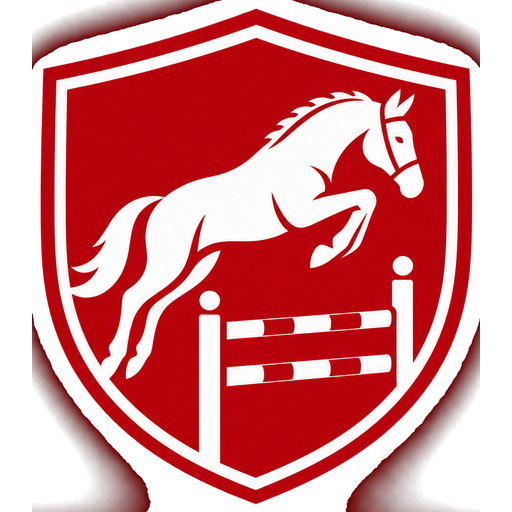
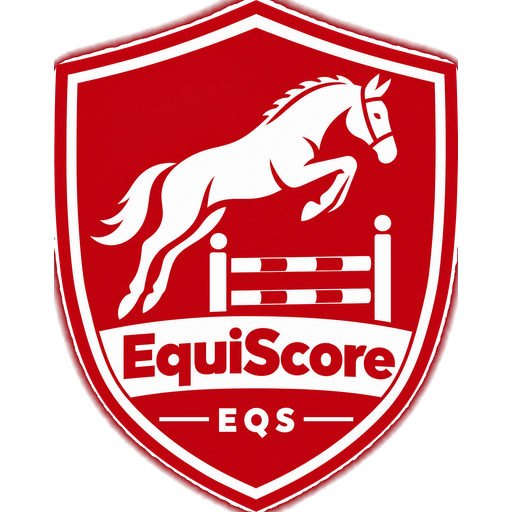
feat: nome de guerra do competidor + nova arte/ícone
Competidor:
- Cadastro e perfil pedem "nome de guerra" (além do nome completo).
- É o nome exibido nas provas/resultados: na auto-inscrição, o conjunto usa
  o nome de guerra + posto do perfil (nome completo guardado em nomeCompleto);
  o formulário de inscrição mostra a identidade e pede só o cavalo.

Identidade visual:
- Novo ícone/favicon do app a partir da arte enviada (badge no escuro).
- Escudo do logo reprocessado com fundo transparente (sharp), usado no
  cabeçalho de todo o site.

Claude-Session: https://claude.ai/code/session_01CQNAp1uXkiHdhSPDNnRbue

diff --git a/src/app/competir/actions.ts b/src/app/competir/actions.ts
@@ -13,7 +13,8 @@ export type EstadoComp = { erro?: string; ok?: string } | undefined;
 
 const Cadastro = z.object({
   email: z.string().trim().toLowerCase().email("E-mail inválido."),
-  nome: z.string().trim().min(2, "Informe seu nome."),
+  nome: z.string().trim().min(2, "Informe seu nome completo."),
+  nomeGuerra: z.string().trim().min(2, "Informe seu nome de guerra."),
   senha: z.string().min(6, "A senha deve ter ao menos 6 caracteres."),
   postoGraduacao: z.string().trim().optional(),
   telefone: z.string().trim().optional(),
@@ -21,14 +22,14 @@ const Cadastro = z.object({
 
 export async function cadastrarComp(_: EstadoComp, form: FormData): Promise<EstadoComp> {
   const d = Cadastro.safeParse({
-    email: form.get("email"), nome: form.get("nome"), senha: form.get("senha"),
+    email: form.get("email"), nome: form.get("nome"), nomeGuerra: form.get("nomeGuerra"), senha: form.get("senha"),
     postoGraduacao: form.get("postoGraduacao") || undefined, telefone: form.get("telefone") || undefined,
   });
   if (!d.success) return { erro: d.error.issues[0].message };
   await conectar();
   if (await Competidor.exists({ email: d.data.email })) return { erro: "Já existe uma conta com esse e-mail." };
   const c = await Competidor.create({
-    email: d.data.email, nome: d.data.nome, password: await gerarHash(d.data.senha),
+    email: d.data.email, nome: d.data.nome, nomeGuerra: d.data.nomeGuerra, password: await gerarHash(d.data.senha),
     postoGraduacao: d.data.postoGraduacao || "", telefone: d.data.telefone || "",
   });
   await criarSessaoComp({ compId: String(c._id), nome: c.nome || "", email: c.email || "" });
@@ -59,6 +60,9 @@ export async function registrarNaProva(provaId: string, form: FormData): Promise
   if (!prova || prova.status !== "ATIVA") return { erro: "As inscrições desta prova estão encerradas." };
   const campos = camposDoForm(form);
   if (!campos.cavalo) return { erro: "Informe o nome do cavalo." };
+  const perfil = await Competidor.findById(sess.compId).lean<Record<string, unknown>>();
+  const nomeExibido = String(perfil?.nomeGuerra || perfil?.nome || sess.nome || "").trim();
+  if (!nomeExibido) return { erro: "Complete seu perfil (nome de guerra) antes de se inscrever." };
   const repriseId = prova.tipo === "ADESTRAMENTO" ? String(form.get("repriseId") || "") : "";
   const categoria = prova.tipo === "SALTO" ? String(form.get("altura") || form.get("categoria") || "").trim() : campos.categoria;
   if (prova.tipo === "ADESTRAMENTO" && !(prova.reprises as Types.ObjectId[]).map(String).includes(repriseId))
@@ -74,12 +78,13 @@ export async function registrarNaProva(provaId: string, form: FormData): Promise
 
   await Cavaleiro.create({
     ...campos, categoria,
+    nome: nomeExibido, nomeCompleto: String(perfil?.nome || ""),
+    postoGraduacao: String(perfil?.postoGraduacao || campos.postoGraduacao || ""),
+    telefone: String(perfil?.telefone || ""), email: String(perfil?.email || sess.email || ""),
     provaId: prova._id, ownerId: prova.ownerId, competidorId: new Types.ObjectId(sess.compId),
     repriseId: repriseId ? new Types.ObjectId(repriseId) : null,
     ordemEntrada: 0, status: "PENDENTE",
   });
-  // Atualiza o perfil com os últimos dados informados.
-  await Competidor.updateOne({ _id: sess.compId }, { $set: { nome: campos.nome || sess.nome, postoGraduacao: campos.postoGraduacao, telefone: campos.telefone } });
   revalidatePath("/competir");
   return { ok: true };
 }
@@ -91,8 +96,10 @@ export async function atualizarPerfil(_: EstadoComp, form: FormData): Promise<Es
   if (nome.length < 2) return { erro: "Informe seu nome." };
   if (senha && senha.length < 6) return { erro: "A nova senha deve ter ao menos 6 caracteres." };
   await conectar();
+  const nomeGuerra = String(form.get("nomeGuerra") || "").trim();
+  if (nomeGuerra.length < 2) return { erro: "Informe seu nome de guerra." };
   const update: Record<string, unknown> = {
-    nome, postoGraduacao: String(form.get("postoGraduacao") || "").trim(), telefone: String(form.get("telefone") || "").trim(),
+    nome, nomeGuerra, postoGraduacao: String(form.get("postoGraduacao") || "").trim(), telefone: String(form.get("telefone") || "").trim(),
   };
   if (senha) update.password = await gerarHash(senha);
   await Competidor.updateOne({ _id: sess.compId }, { $set: update });

diff --git a/src/components/campos-cadastro.tsx b/src/components/campos-cadastro.tsx
@@ -31,7 +31,7 @@ export function CategoriaSelect({ valor }: { valor?: string }) {
 }
 
 /** Bloco comum do cadastro do conjunto (mesmos campos do sistema antigo). */
-export function CamposConjunto({ v, categoria = true, cavalos }: { v?: ValoresCadastro; categoria?: boolean; cavalos?: CavaloSalvo[] }) {
+export function CamposConjunto({ v, categoria = true, cavalos, modo = "completo" }: { v?: ValoresCadastro; categoria?: boolean; cavalos?: CavaloSalvo[]; modo?: "completo" | "cavalo" }) {
   const listId = useId();
   const preencher = (e: React.ChangeEvent<HTMLInputElement>) => {
     if (!cavalos?.length) return;
@@ -50,12 +50,16 @@ export function CamposConjunto({ v, categoria = true, cavalos }: { v?: ValoresCa
   };
   return (
     <>
-      <div className="grid grid-cols-[110px_1fr] gap-3">
-        <div><label className={rotulo}>Posto/Grad.</label><PostoSelect valor={v?.postoGraduacao} /></div>
-        <div><label className={rotulo}>Nome do cavaleiro <span className="text-red">*</span></label>
-          <input name="nome" defaultValue={v?.nome} placeholder="Nome completo" required className={campoCad} autoComplete="off" /></div>
-      </div>
-      {categoria && <div><label className={rotulo}>Categoria</label><CategoriaSelect valor={v?.categoria} /></div>}
+      {modo === "completo" && (
+        <>
+          <div className="grid grid-cols-[110px_1fr] gap-3">
+            <div><label className={rotulo}>Posto/Grad.</label><PostoSelect valor={v?.postoGraduacao} /></div>
+            <div><label className={rotulo}>Nome do cavaleiro <span className="text-red">*</span></label>
+              <input name="nome" defaultValue={v?.nome} placeholder="Nome completo" required className={campoCad} autoComplete="off" /></div>
+          </div>
+          {categoria && <div><label className={rotulo}>Categoria</label><CategoriaSelect valor={v?.categoria} /></div>}
+        </>
+      )}
       <div><label className={rotulo}>Nome do cavalo <span className="text-red">*</span></label>
         <input name="cavalo" defaultValue={v?.cavalo} placeholder="Nome da montada" required className={campoCad} autoComplete="off"
           list={cavalos?.length ? listId : undefined} onChange={cavalos?.length ? preencher : undefined} />
@@ -74,10 +78,12 @@ export function CamposConjunto({ v, categoria = true, cavalos }: { v?: ValoresCa
             <div><label className={rotulo}>Tratador</label><input name="tratador" defaultValue={v?.tratador} placeholder="opcional" className={campoCad} autoComplete="off" /></div>
             <div><label className={rotulo}>Equipe</label><input name="equipe" defaultValue={v?.equipe} placeholder="opcional" className={campoCad} autoComplete="off" /></div>
           </div>
-          <div className="grid grid-cols-2 gap-3">
-            <div><label className={rotulo}>E-mail</label><input name="email" type="email" defaultValue={v?.email} placeholder="opcional" className={campoCad} /></div>
-            <div><label className={rotulo}>Telefone</label><input name="telefone" type="tel" defaultValue={v?.telefone} placeholder="opcional" className={campoCad} /></div>
-          </div>
+          {modo === "completo" && (
+            <div className="grid grid-cols-2 gap-3">
+              <div><label className={rotulo}>E-mail</label><input name="email" type="email" defaultValue={v?.email} placeholder="opcional" className={campoCad} /></div>
+              <div><label className={rotulo}>Telefone</label><input name="telefone" type="tel" defaultValue={v?.telefone} placeholder="opcional" className={campoCad} /></div>
+            </div>
+          )}
         </div>
       </details>
     </>

diff --git a/src/app/competir/prova/[id]/form.tsx b/src/app/competir/prova/[id]/form.tsx
@@ -9,7 +9,7 @@ import { somSucesso } from "@/lib/som";
 
 export function FormInscricaoComp({ provaId, tipo, reprises, perfil, cavalos }: {
   provaId: string; tipo: string; reprises: { id: string; nome: string }[];
-  perfil: { nome: string; postoGraduacao: string; telefone: string; email: string };
+  perfil: { nome: string; nomeGuerra: string; postoGraduacao: string; telefone: string; email: string };
   cavalos: CavaloSalvo[];
 }) {
   const router = useRouter();
@@ -30,6 +30,11 @@ export function FormInscricaoComp({ provaId, tipo, reprises, perfil, cavalos }: 
   return (
     <form action={(fd) => start(async () => { const r = await registrarNaProva(provaId, fd); if (r.erro) setErro(r.erro); else { somSucesso(); setOk(true); router.refresh(); } })}
       className="flex flex-col gap-4 rounded-2xl border border-line bg-surf p-5 shadow-sm">
+      <div className="rounded-xl border border-line bg-surf2 px-3.5 py-2.5">
+        <div className="text-[11px] font-bold uppercase tracking-wide text-mut">Você vai competir como</div>
+        <div className="font-black">{[perfil.postoGraduacao, perfil.nomeGuerra || perfil.nome].filter(Boolean).join(" ")}</div>
+        <a href="/competir/perfil" className="text-xs font-semibold text-red hover:underline">Editar meus dados</a>
+      </div>
       {tipo === "ADESTRAMENTO" ? (
         <div><label className={rotulo}>Reprise <span className="text-red">*</span></label>
           <select name="repriseId" required defaultValue="" className={campoCad}>
@@ -45,7 +50,7 @@ export function FormInscricaoComp({ provaId, tipo, reprises, perfil, cavalos }: 
           </select>
         </div>
       )}
-      <CamposConjunto categoria={tipo === "ADESTRAMENTO"} cavalos={cavalos} v={{ nome: perfil.nome, postoGraduacao: perfil.postoGraduacao, telefone: perfil.telefone, email: perfil.email }} />
+      <CamposConjunto modo="cavalo" cavalos={cavalos} />
       {erro && <p role="alert" className="rounded-xl bg-redwash px-3 py-2 text-sm text-red6 eqs-shake">{erro}</p>}
       <button data-som="off" disabled={pend} className="inline-flex items-center justify-center gap-2 rounded-xl bg-red py-3 font-bold text-white shadow-sm transition hover:bg-red6 active:scale-[.99] disabled:opacity-60">
         {pend && <IconSpinner width={18} height={18} />} {pend ? "Enviando…" : "Confirmar inscrição"}

diff --git a/src/app/competir/perfil/form.tsx b/src/app/competir/perfil/form.tsx
@@ -5,15 +5,18 @@ import { PostoSelect, campoCad, rotulo } from "@/components/campos-cadastro";
 import { IconSpinner } from "@/lib/icons";
 import { somSucesso, somAviso } from "@/lib/som";
 
-export function FormPerfil({ valores }: { valores: { nome: string; postoGraduacao: string; telefone: string } }) {
+export function FormPerfil({ valores }: { valores: { nome: string; nomeGuerra: string; postoGraduacao: string; telefone: string } }) {
   const [estado, acao, enviando] = useActionState<EstadoComp, FormData>(atualizarPerfil, undefined);
   useEffect(() => { if (estado?.ok) somSucesso(); else if (estado?.erro) somAviso(); }, [estado]);
   return (
     <form action={acao} className="flex flex-col gap-4 rounded-2xl border border-line bg-surf p-5 shadow-sm">
       <div className="grid grid-cols-[110px_1fr] gap-3">
         <div><label className={rotulo}>Posto/Grad.</label><PostoSelect valor={valores.postoGraduacao} /></div>
-        <div><label className={rotulo}>Nome <span className="text-red">*</span></label><input name="nome" defaultValue={valores.nome} required className={campoCad} /></div>
+        <div><label className={rotulo}>Nome completo <span className="text-red">*</span></label><input name="nome" defaultValue={valores.nome} required className={campoCad} /></div>
       </div>
+      <div><label className={rotulo}>Nome de guerra <span className="text-red">*</span></label>
+        <input name="nomeGuerra" defaultValue={valores.nomeGuerra} required className={campoCad} />
+        <small className="mt-1 block text-xs text-dim">É o que aparece nas provas.</small></div>
       <div><label className={rotulo}>Telefone</label><input name="telefone" type="tel" defaultValue={valores.telefone} className={campoCad} /></div>
       <div><label className={rotulo}>Nova senha <span className="font-normal normal-case text-dim">(deixe em branco para manter)</span></label>
         <input name="senha" type="password" placeholder="••••••" className={campoCad} autoComplete="new-password" /></div>

diff --git a/src/app/competir/cadastro/form.tsx b/src/app/competir/cadastro/form.tsx
@@ -10,9 +10,12 @@ export function FormCadastroComp() {
     <form action={acao} className="flex flex-col gap-4">
       <div className="grid grid-cols-[110px_1fr] gap-3">
         <div><label className={rotulo}>Posto/Grad.</label><PostoSelect /></div>
-        <div><label className={rotulo}>Nome <span className="text-red">*</span></label>
+        <div><label className={rotulo}>Nome completo <span className="text-red">*</span></label>
           <input name="nome" placeholder="Nome completo" required className={campoCad} autoComplete="name" /></div>
       </div>
+      <div><label className={rotulo}>Nome de guerra <span className="text-red">*</span></label>
+        <input name="nomeGuerra" placeholder="Como aparece nas provas (ex.: Silva)" required className={campoCad} autoComplete="off" />
+        <small className="mt-1 block text-xs text-dim">É o que aparece nas provas e nos resultados.</small></div>
       <div><label className={rotulo}>E-mail <span className="text-red">*</span></label>
         <input name="email" type="email" placeholder="voce@email.com" required className={campoCad} autoComplete="email" /></div>
       <div><label className={rotulo}>Telefone</label>

diff --git a/src/app/competir/perfil/page.tsx b/src/app/competir/perfil/page.tsx
@@ -18,7 +18,7 @@ export default async function Perfil() {
       <Link href="/competir" className="inline-flex items-center gap-1 text-sm text-mut transition hover:text-red"><IconVoltar width={16} height={16} /> Voltar</Link>
       <h1 className="mt-2 mb-1 text-2xl font-black">Meu perfil</h1>
       <p className="mb-5 text-sm text-mut">{String(perfil?.email || s.email)}</p>
-      <FormPerfil valores={{ nome: String(perfil?.nome || ""), postoGraduacao: String(perfil?.postoGraduacao || ""), telefone: String(perfil?.telefone || "") }} />
+      <FormPerfil valores={{ nome: String(perfil?.nome || ""), nomeGuerra: String(perfil?.nomeGuerra || ""), postoGraduacao: String(perfil?.postoGraduacao || ""), telefone: String(perfil?.telefone || "") }} />
 
       <div className="mt-6 rounded-2xl border border-line bg-surf p-5 shadow-sm">
         <h2 className="flex items-center gap-2 text-sm font-bold uppercase tracking-wider text-mut"><IconCelular width={16} height={16} className="text-red" /> Meus cavalos</h2>

diff --git a/src/app/competir/prova/[id]/page.tsx b/src/app/competir/prova/[id]/page.tsx
@@ -41,7 +41,7 @@ export default async function InscreverProva({ params }: PageProps<"/competir/pr
           provaId={id}
           tipo={String(prova.tipo)}
           reprises={reprises.map((r) => ({ id: String(r._id), nome: String(r.nome) }))}
-          perfil={{ nome: String(perfil?.nome || s.nome || ""), postoGraduacao: String(perfil?.postoGraduacao || ""), telefone: String(perfil?.telefone || ""), email: String(perfil?.email || s.email || "") }}
+          perfil={{ nome: String(perfil?.nome || s.nome || ""), nomeGuerra: String(perfil?.nomeGuerra || ""), postoGraduacao: String(perfil?.postoGraduacao || ""), telefone: String(perfil?.telefone || ""), email: String(perfil?.email || s.email || "") }}
           cavalos={cavalos}
         />
       )}

diff --git a/src/lib/server/models.ts b/src/lib/server/models.ts
@@ -39,6 +39,7 @@ const provaSchema = new Schema(
 const cavaleiroSchema = new Schema(
   {
     nome: { type: String, required: true },
+    nomeCompleto: { type: String, default: "" },
     cavalo: { type: String, required: true },
     postoGraduacao: { type: String, default: "" },
     categoria: { type: String, default: "" },
@@ -126,6 +127,7 @@ const competidorSchema = new Schema(
     email: { type: String, unique: true },
     password: String,
     nome: { type: String, default: "" },
+    nomeGuerra: { type: String, default: "" },
     postoGraduacao: { type: String, default: "" },
     telefone: { type: String, default: "" },
   },
